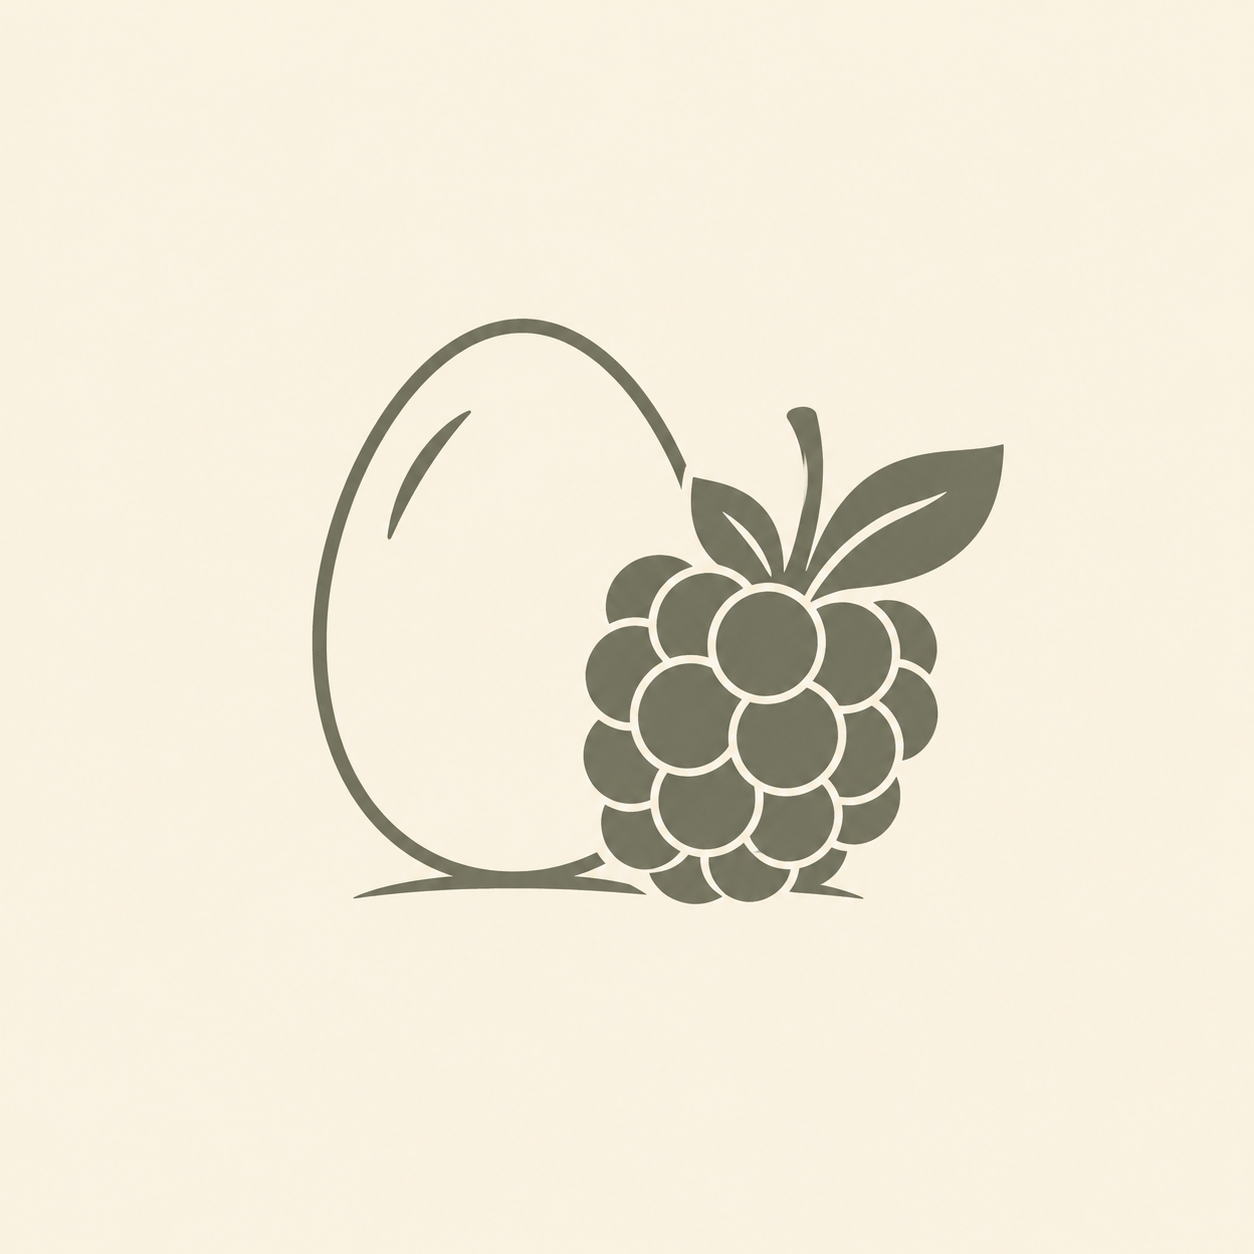
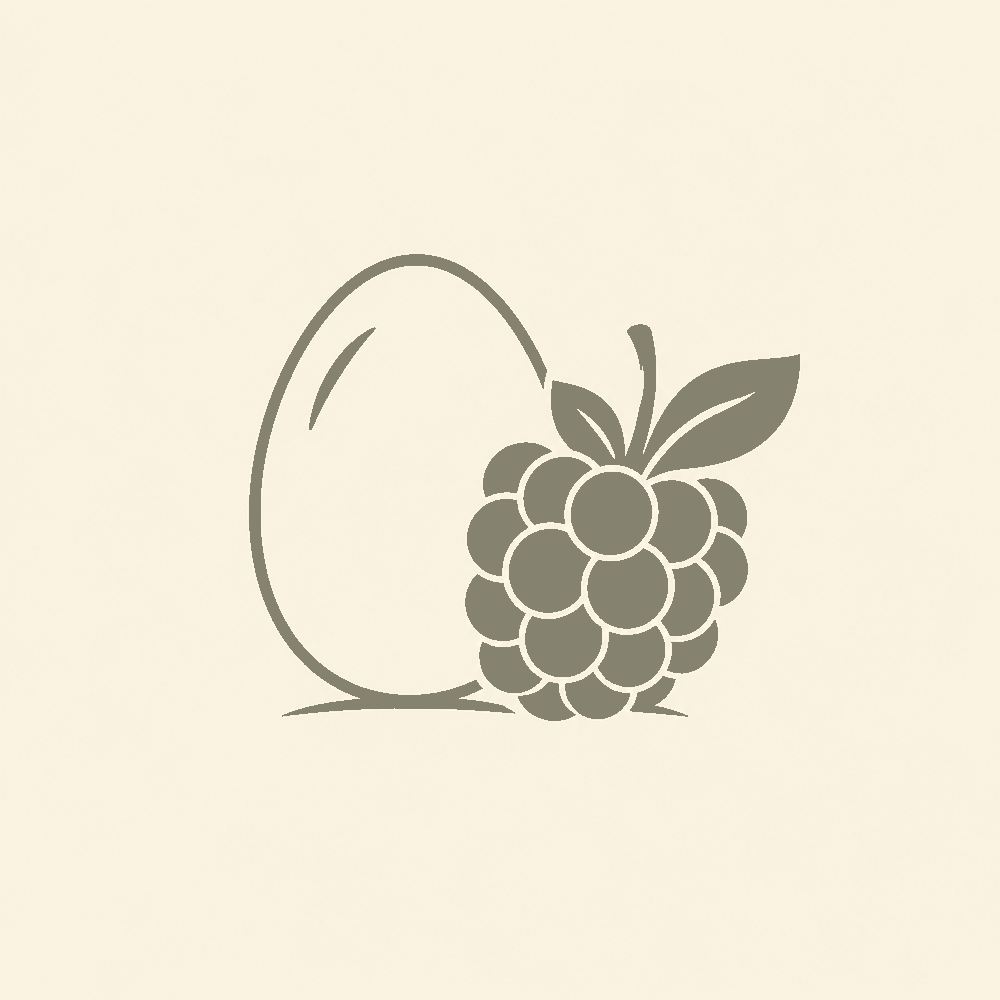
docs: meet the submission requirements and write a real readme
The checklist was still unticked. The description said "<FILL THIS>", the
readme was the template, and the logo was 1254x1254 at 925 KB against a
stated limit of 1000x1000 and 500 KB — it is now 1000x1000 at 374 KB,
quantised to sixteen colours, which is lossless in practice for two flat
inks.

The readme leads with the problem it measured in the real spreadsheet
rather than a feature list, and gives the production planner the space it
deserves, since that is the part that is not a CRUD.

diff --git a/README.md b/README.md
@@ -1,38 +1,121 @@
-# Julian Rafael Pinto — Platanus Build Night — Bogotá @ Buk Project
+<img src="./project-logo.png" alt="Toromana" width="140" />
 
-**Current project logo:** project-logo.png
+# Toromana
 
-<img src="./project-logo.png" alt="Project Logo" width="200" />
+**El sistema operativo de una finca real.** Pedidos, reparto, cartera — y un
+modelo que le dice cuándo comprar el próximo lote de gallinas.
 
-Hacker:
+🔗 **[toromana.vercel.app](https://toromana.vercel.app)**
 
-- Julian Rafael Pinto ([@jrpinto2005](https://github.com/jrpinto2005))
+Platanus Build Night · Bogotá @ Buk — Julian Rafael Pinto
+([@jrpinto2005](https://github.com/jrpinto2005))
 
-Before submitting:
+---
 
-- ✅ Set a project name, oneliner and description in build-night-project.json
-- ✅ Provide a 1000x1000 png project logo, max 500kb (project-logo.png)
-- ✅ Provide a concise and to the point readme
+## El problema
 
-## ⚠ Deploying (Vercel, Render, etc.)
+Una finca a las afueras de Bogotá le vende huevos, moras y miel a unos 150
+clientes todas las semanas. Todo vive en un archivo de Excel de **59 hojas**:
 
-Deploy platforms like **Vercel**, **Render** or **Netlify** can only connect to
-repositories **you own** — they can't be granted access to this organization repo.
-To deploy while keeping your commits here, mirror your code to a personal repo:
+- Cada semana alguien clona una pestaña y **revisa WhatsApps** para saber quién
+  entra y quién sale de la lista.
+- Las órdenes de compra se editan **a mano en Word**: cambiar la fecha, el
+  consecutivo, las cantidades.
+- A fin de mes se corre **una macro** que agrega por nombre para sacar la cartera.
 
-1. Create a **personal** repository on your own GitHub account.
-2. Point your local `origin` at **both** repos, so a single `git push` updates each one:
+Lo que eso cuesta, medido sobre el archivo real:
 
-   ```bash
-   # this org repo (keep it as a push target)...
-   git remote set-url --add --push origin https://github.com/platanus-build-night/platanus-build-night-26-co-jrpinto2005.git
-   # ...and your personal repo
-   git remote set-url --add --push origin https://github.com/<your-user>/<your-repo>.git
-   ```
+| | |
+|---|---|
+| Cartera sin cobrar en un solo mes | **$580.000**, repartidos en 6 clientes |
+| Clientes duplicados que parten la deuda | el mismo nombre con un espacio de más aparece como dos filas |
+| Datos escondidos en texto | `"Nombre: 2 huevos"`, `"Nombre c/ 15 días"` |
 
-   From now on `git push` sends every commit to **both** repositories.
-3. Connect your deploy service (Vercel, Render, …) to your **personal** repo and deploy from there.
+Y el costo que no se mide: si un cliente se cae de la lista semanal, **no recibe
+producto y nadie se entera**.
 
-Your commits stay mirrored here for judging, while the deploy runs from the repo you control.
+## Qué hace
 
-Have fun! 🚀
+**El pedido de la semana se arma solo.** Entran los clientes fijos con su pedido
+habitual, al último precio que se les cobró — así un institucional con tarifa
+pactada vuelve a salir a su tarifa sin mantener tabla de precios. Los tres
+vendedores lo editan **al mismo tiempo**, en vivo. Quien está en pausa aparece
+**en gris con el motivo**, no desaparece: que un cliente no esté esta semana
+tiene que ser una decisión visible.
+
+**Los papeles salen como los de siempre.** La lista de reparto y los recibos que
+firma el hotel replican el documento que reemplazan, con consecutivos
+automáticos. Un papel que se ve distinto cada semana genera preguntas en la
+recepción.
+
+**La cartera se ordena sola.** Los pagos se aplican al saldo más antiguo primero,
+así el panel de cobros se ordena por hace-cuánto-deben y no por quién se acordó
+de mirar. Un toque abre WhatsApp con el mensaje escrito y la cuenta bancaria que
+corresponde — la de la empresa si es institucional, la simple si es persona.
+
+**Y el planificador de producción**, que es lo que no es un CRUD.
+
+## El planificador
+
+Una gallina no pone parejo. Sube a un pico, **entra en muda y cae a la mitad**,
+vuelve a un segundo pico casi igual, y solo entonces decae. Se vende antes de
+llegar a cero.
+
+```
+100 │        ╭─────╮                 ╭────╮
+    │      ╭─╯      ╲               ╱      ╲___
+ 50 │   ╱             ╲──────╱                  ╲___  ● se vende
+  0 │──────
+    └───┬────┬────┬────┬────┬────┬────┬────┬────┬────
+    0   6   12   16   22   30   35   40   43   56  semanas
+```
+
+Como el galpón tiene varios lotes de edades distintas, la producción total nunca
+es plana. Y **comprar en el momento equivocado apila el valle del lote nuevo
+sobre el de uno viejo** y deja un hueco peor que el original.
+
+El planificador ajusta esa curva a los registros de la finca —separando lo que
+es propio de cada lote de lo que le pasa a todo el galpón a la vez— y busca
+semana y tamaño de compra para **escalonar los lotes de modo que el pico de uno
+tape el valle de otro**.
+
+Sobre el galpón sembrado, con meta de 2.150 huevos/semana a 78 semanas:
+
+| | Sin comprar | Con el plan |
+|---|---|---|
+| Desviación media | se va a cero al envejecer los lotes | **119 huevos/semana** |
+
+El plan que encuentra son cuatro compras escalonadas cada ~16 semanas. **Esa
+cadencia no está programada** — sale del optimizador.
+
+El modelo dice en pantalla cuánto sabe: con poca historia se apoya en el
+comportamiento típico de la especie y lo declara, en vez de presentar un supuesto
+como si fuera aprendizaje.
+
+## Cómo está hecho
+
+**Next.js 16 · React 19 · Supabase · Vercel.** Monolito modular: la lógica vive
+en `src/modules/<dominio>` y las rutas solo orquestan. **$0 al mes** — el negocio
+no tenía presupuesto, y esa fue una restricción de diseño, no un detalle.
+
+Decisiones que valen la pena:
+
+- **Los saldos se derivan**, nunca se almacenan. Un saldo guardado se
+  desincroniza — es exactamente lo que le pasa hoy a la macro de Excel.
+- **Sin geocodificación.** Las direcciones aquí son «Parex», «Edificio», «Debajo
+  de la casa». Un geocodificador devolvería puntos inventados, y un pin inventado
+  en un mapa de reparto es peor que ningún pin: se marcan a mano, una vez.
+- **Reparto no escribe en contabilidad.** Reporta el efectivo que recibe y
+  contabilidad lo confirma. A nivel de base de datos, no solo escondido en la UI.
+- **Sin datos reales en el repositorio.** ~150 personas con nombre, dirección y
+  teléfono; los documentos usan alias y los archivos fuente están gitignoreados.
+
+```bash
+npm install
+cp .env.example .env.local   # URL y llaves de Supabase
+npm run dev
+```
+
+Migraciones en `supabase/migrations/`, en orden. Documentación en
+[`docs/`](docs/): [SPEC](docs/SPEC.md) para el dominio,
+[ARCHITECTURE](docs/ARCHITECTURE.md) para el esquema.
